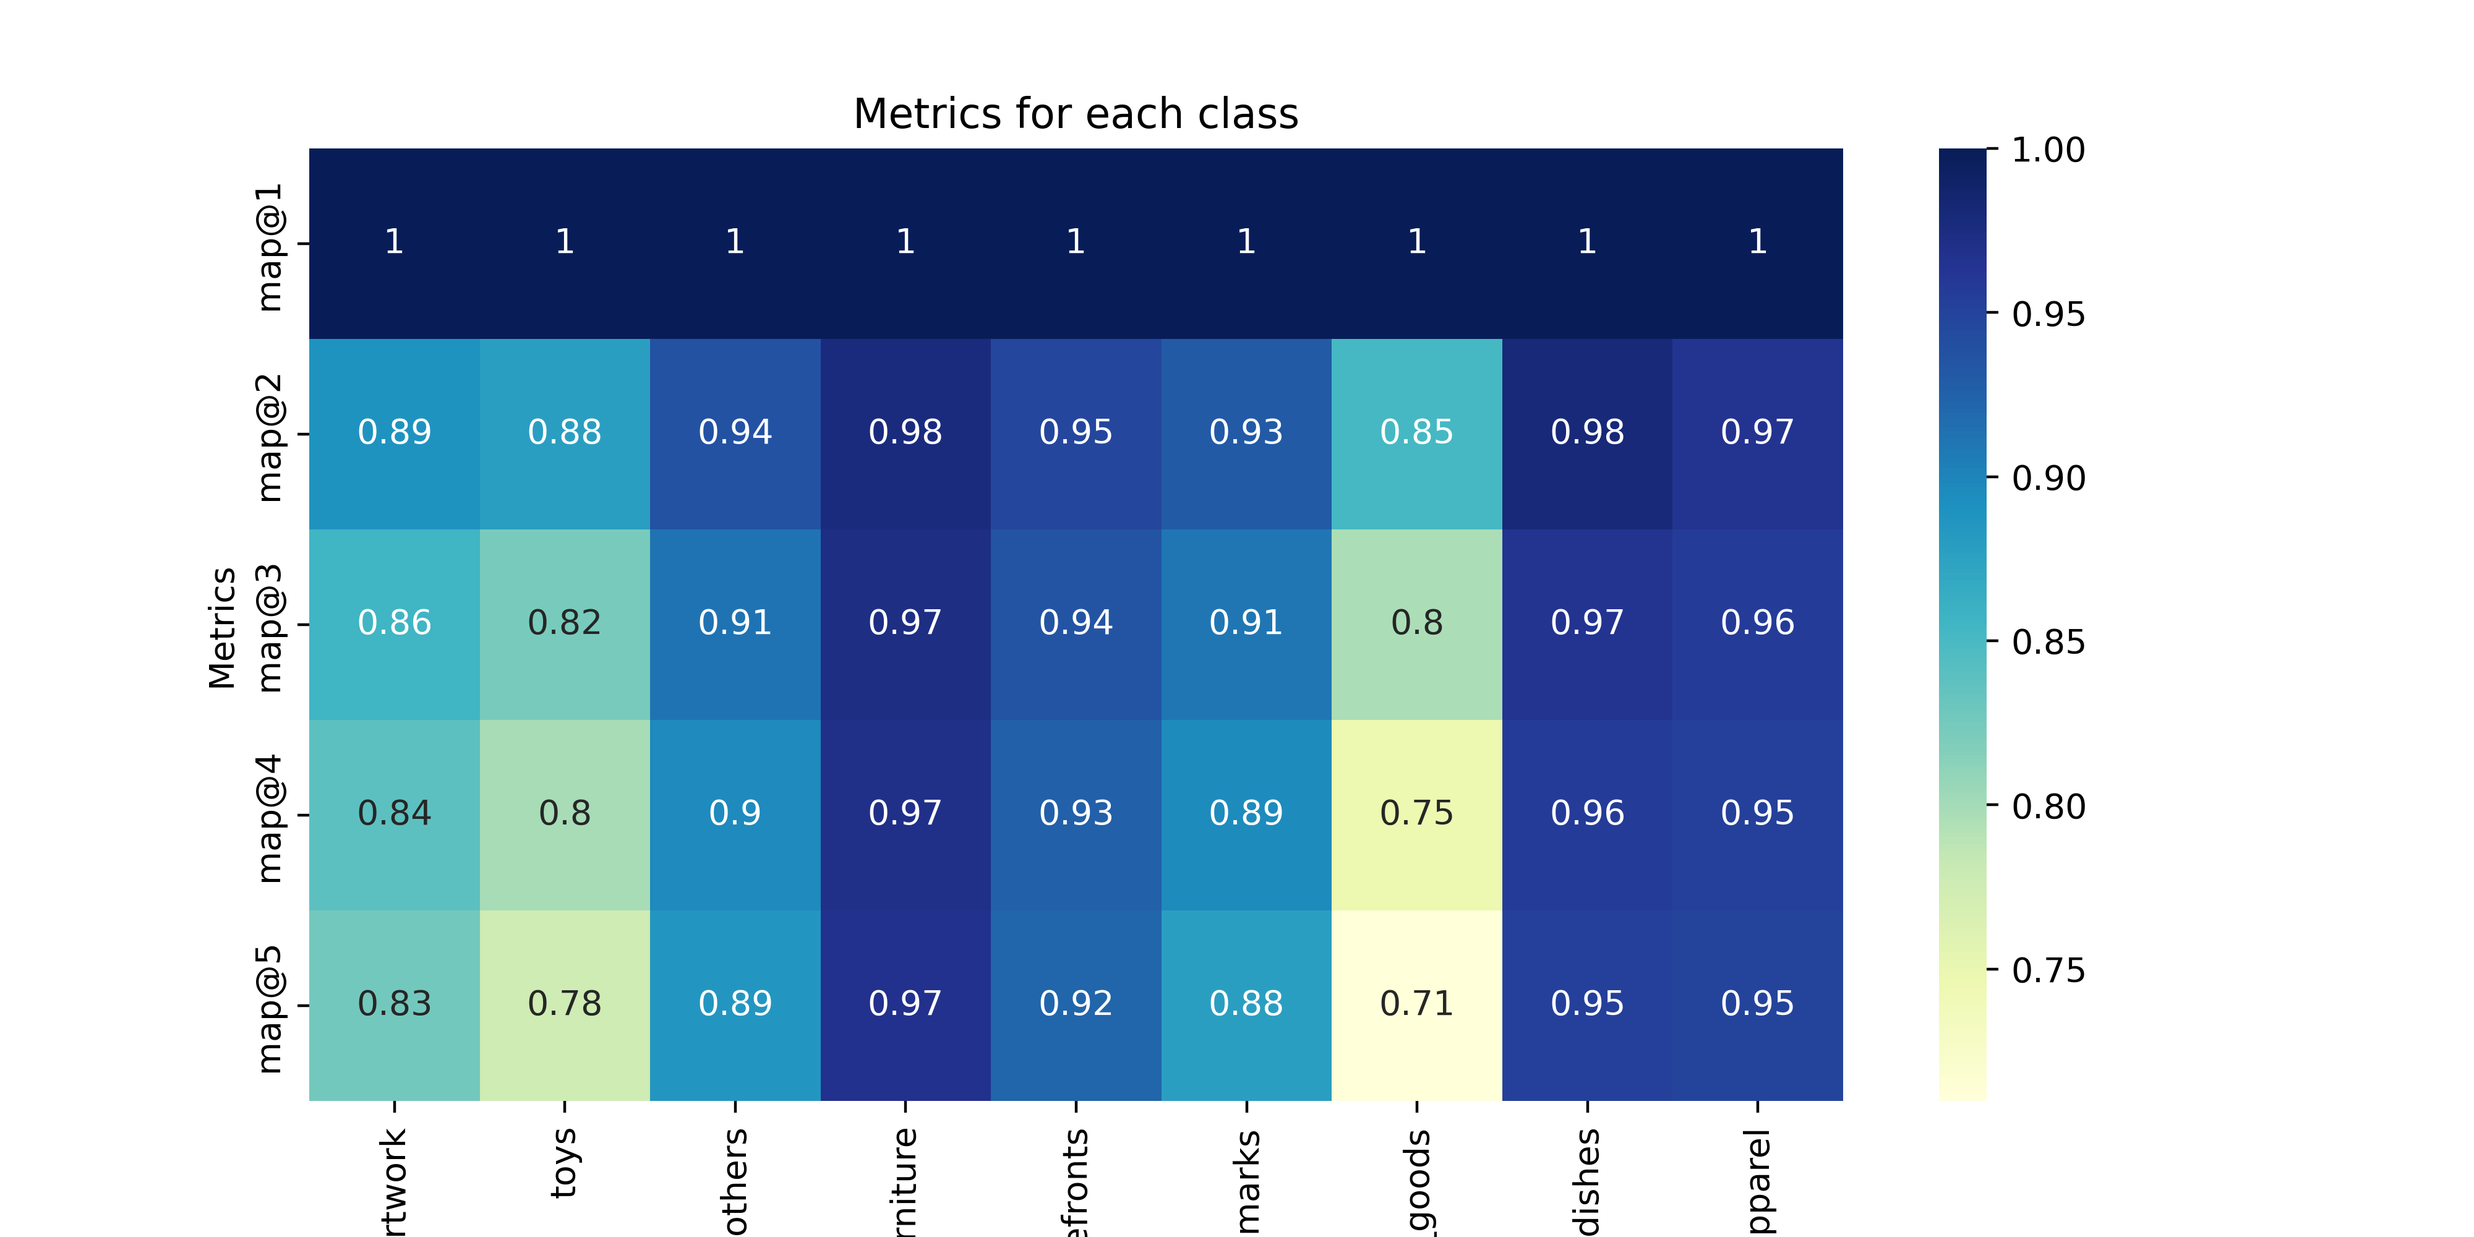
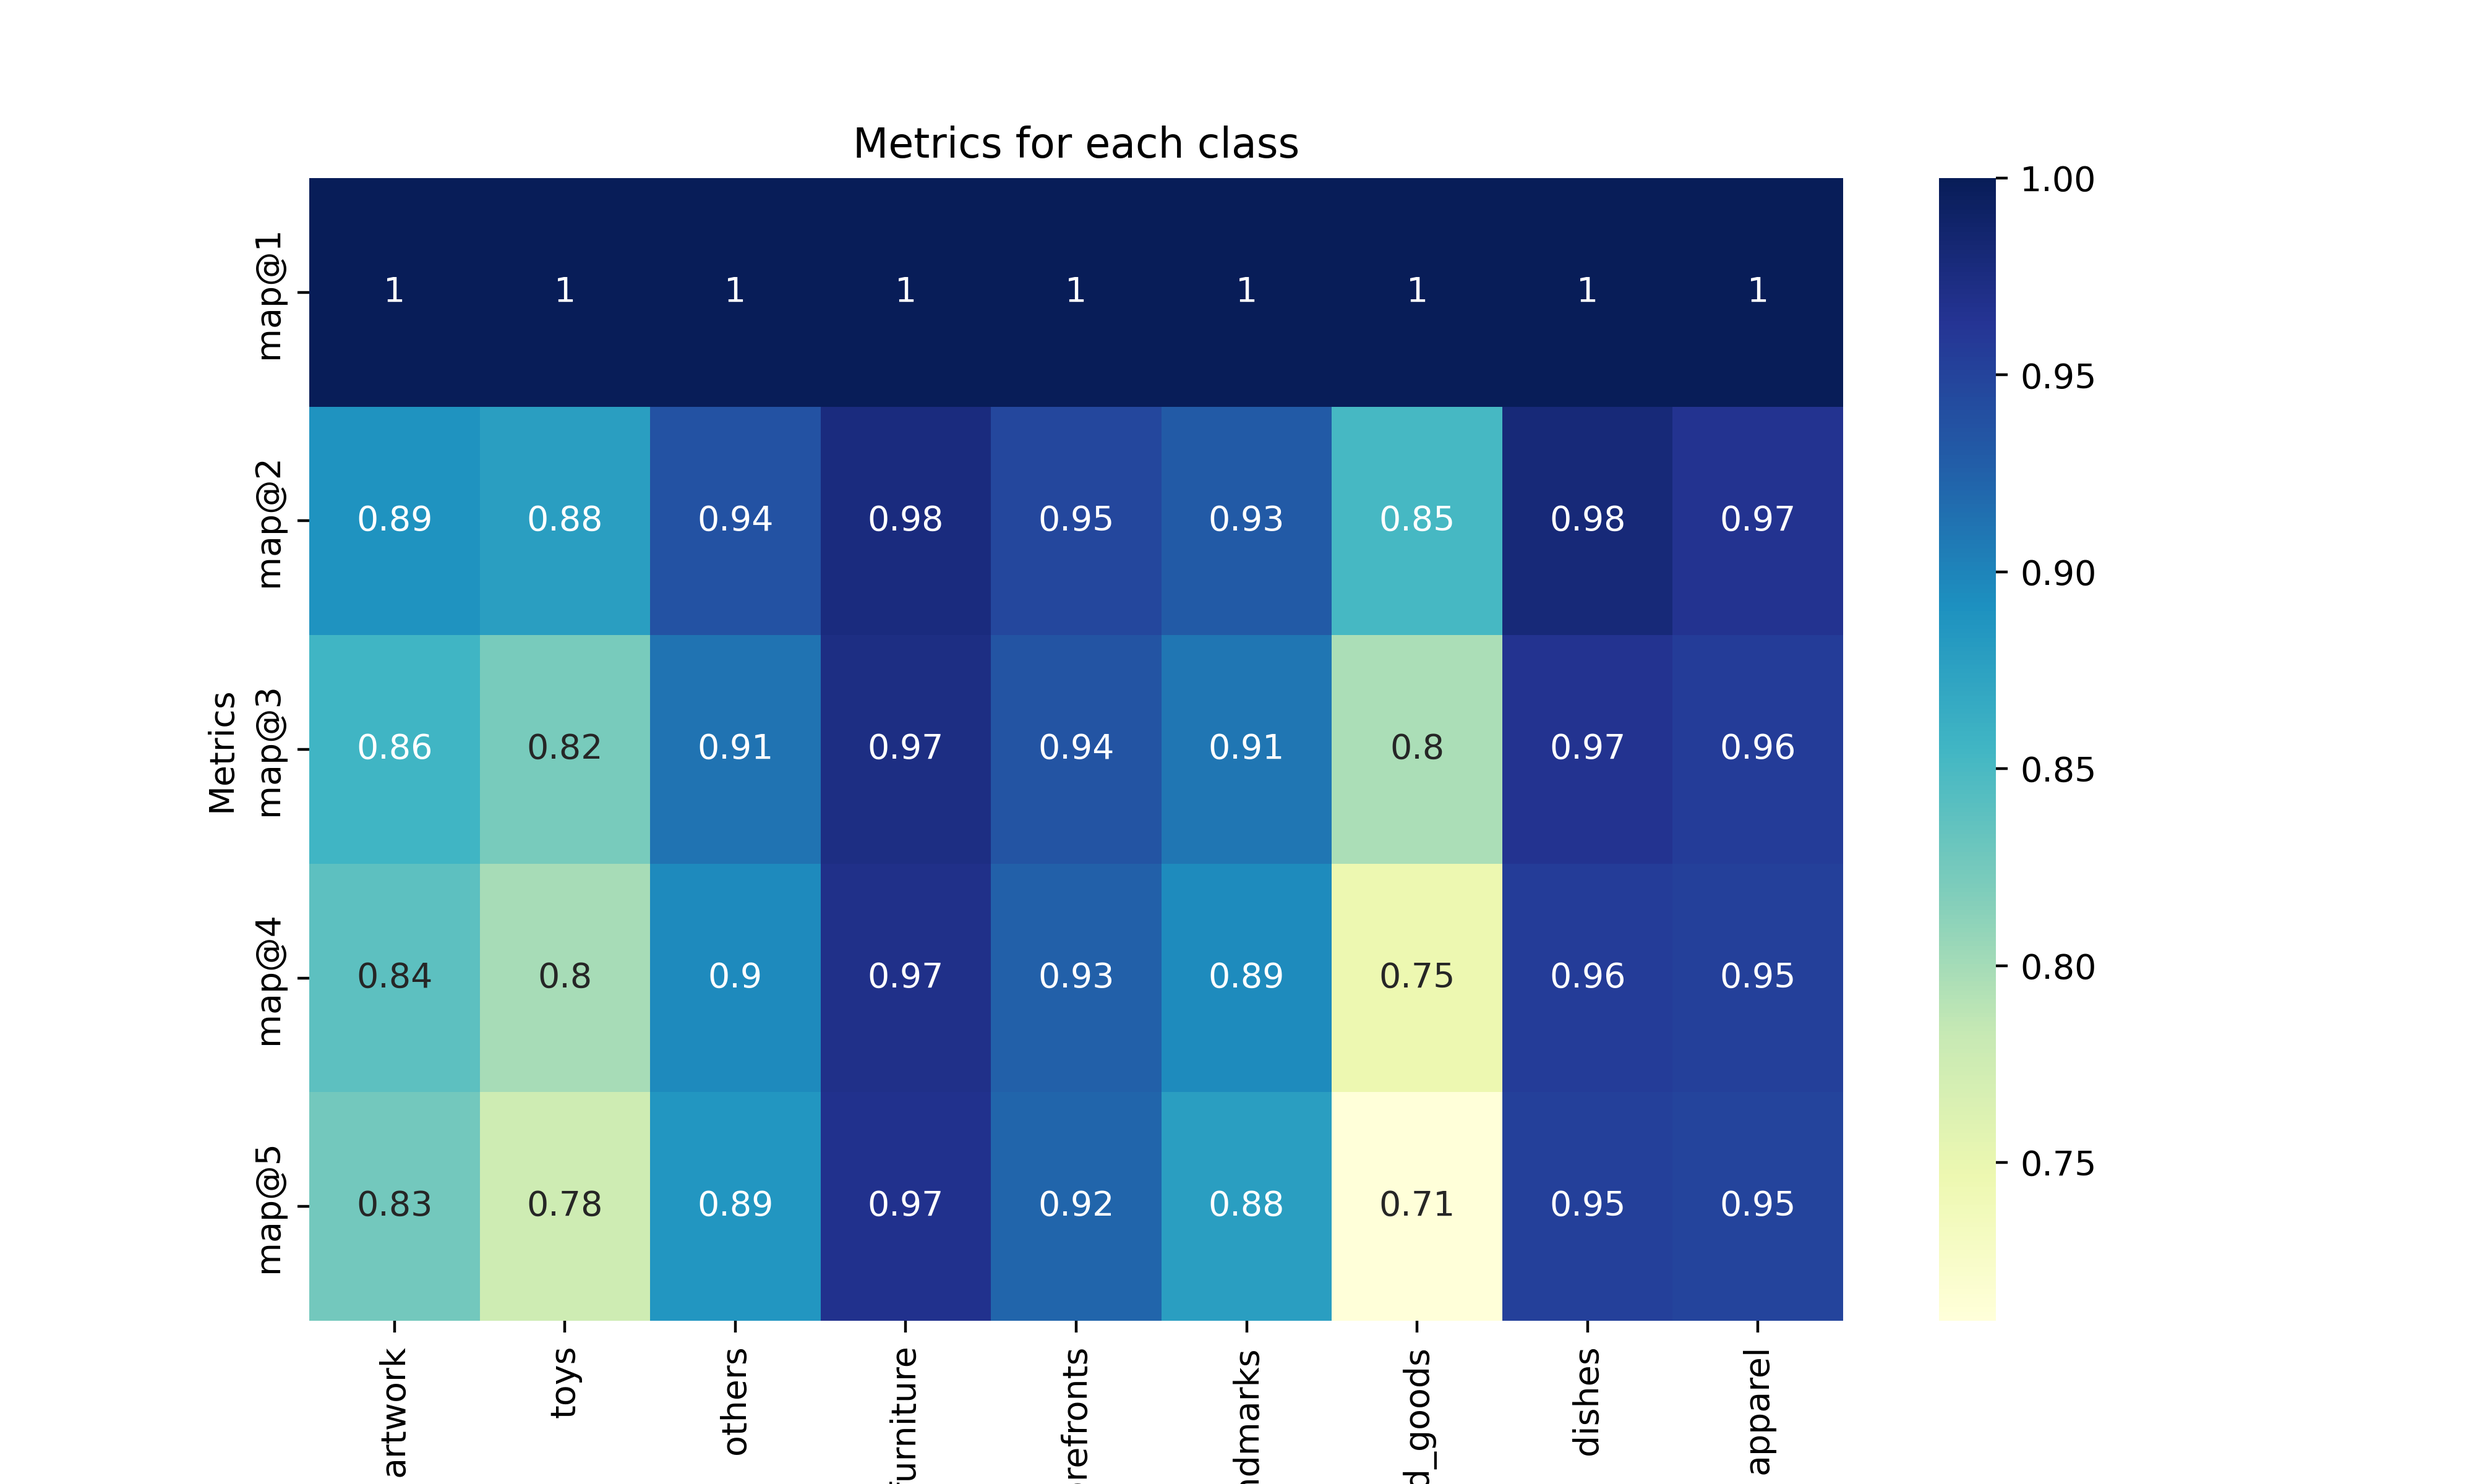
Update README and requirements.txt

diff --git a/search_index/src/stages/evaluate.py b/search_index/src/stages/evaluate.py
@@ -73,7 +73,7 @@ def evaluate(config_path: Text) -> None:
     with open(PATH_METRICS_MAP5 , 'w') as outfile:
         json.dump(report_map_at_5, outfile)
         
-    f, ax = plt.subplots(figsize=(10, 5))
+    f, ax = plt.subplots(figsize=(10, 6))
     ax = sns.heatmap(report.T, annot=True, cmap="YlGnBu")
     ax.set(
         title = 'Metrics for each class', 
